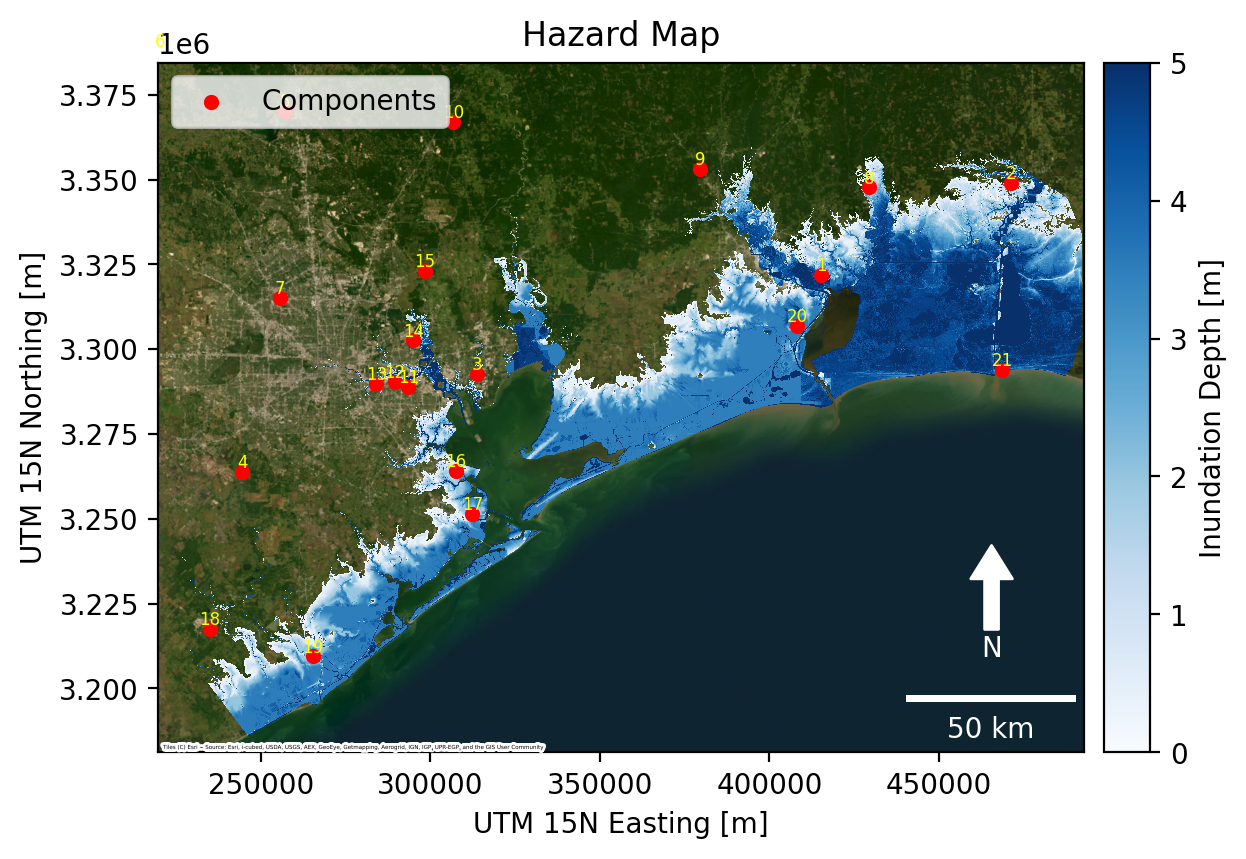
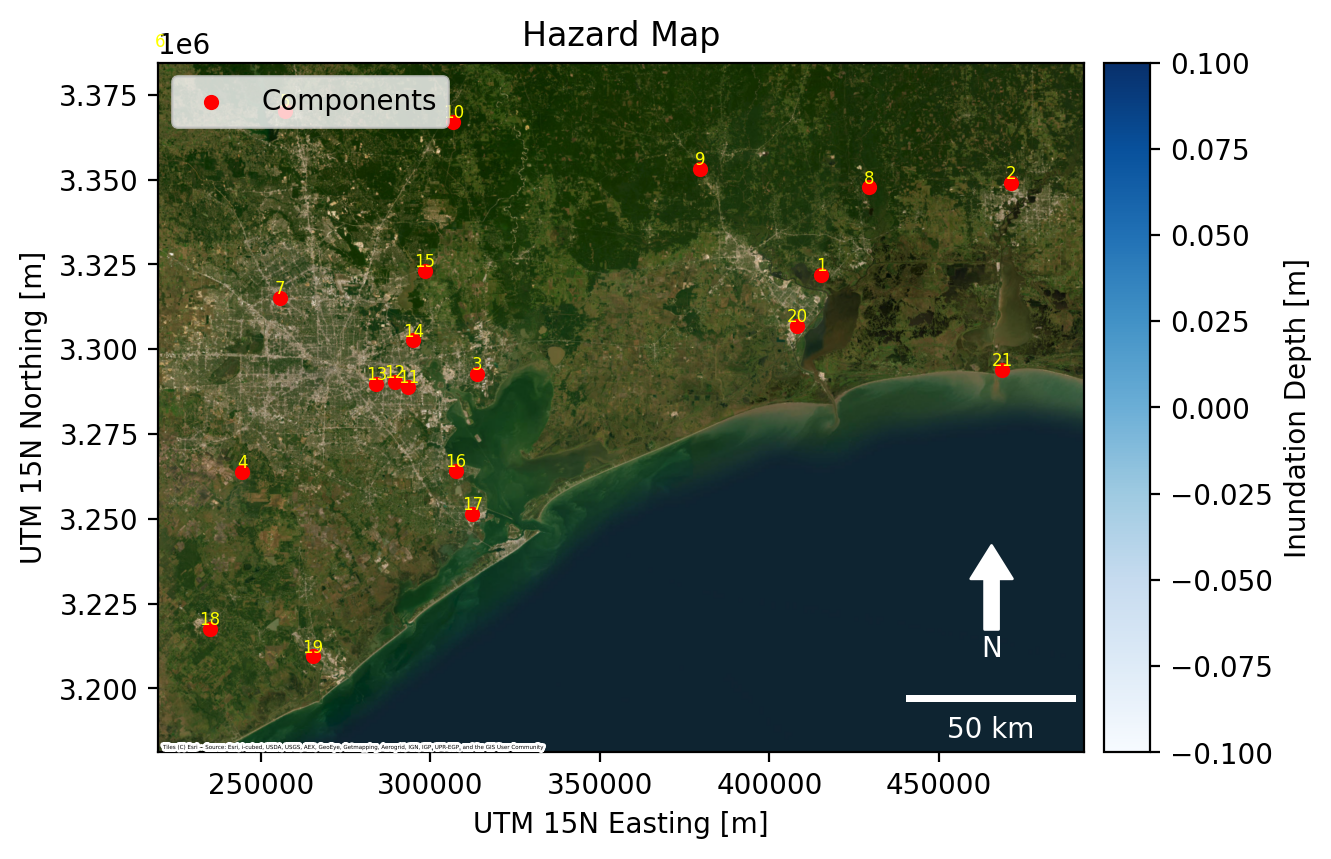
added better plots

diff --git a/utils/plot_asset_network.py b/utils/plot_asset_network.py
@@ -60,14 +60,7 @@ ASSET_TYPE_COLORS: Mapping[str, str] = {
 }
 
 # Optional edge labels to highlight the role of key connections.
-BASE_EDGE_LABELS: Dict[Tuple[str, str], str] = {
-    ("Substation1", "Compressor1"): "Feeder S1-C1",
-    ("Substation1", "Compressor2"): "Feeder S1-C2",
-    ("Substation1", "Compressor3"): "Feeder S1-C3",
-    ("Substation2", "Compressor1"): "Feeder S2-C1",
-    ("Substation2", "Compressor2"): "Feeder S2-C2",
-    ("Substation2", "Compressor3"): "Feeder S2-C3",
-}
+BASE_EDGE_LABELS: Dict[Tuple[str, str], str] = {}
 
 # Manually chosen coordinates to keep the diagram easy to read.
 BASE_MANUAL_POSITIONS: Mapping[str, Tuple[float, float]] = {
@@ -98,6 +91,9 @@ BASE_ASSET_COORDINATES: Mapping[str, Tuple[float, float]] = {
 ASSET_COORD_CRS = "EPSG:32615"
 DEFAULT_DEM_PATH = Path("data/houston_example_DEM_30m.tif")
 DEFAULT_BACKGROUND_IMAGE = Path("data/inun_zero_depth.png")
+REPO_ROOT = Path(__file__).resolve().parents[1]
+DEFAULT_IMAGE_DIR = REPO_ROOT / "Images"
+DEFAULT_PRIMARY_FILENAME = "asset_dependency_map.png"
 
 
 def _dependency_map() -> Dict[str, Sequence[str]]:
@@ -350,15 +346,18 @@ def _draw_geographic_network(
         ax.scatter(
             [coord[0]],
             [coord[1]],
-            s=120,
+            s=160,
             color=color,
-            edgecolors="#1f1f1f",
-            linewidths=0.9,
+            edgecolors="#0f0f0f",
+            linewidths=1.1,
             zorder=4,
         )
+        label_x, label_y = coord
+        if node == "Compressor1":
+            label_y += 2500.0
         text = ax.text(
-            coord[0],
-            coord[1],
+            label_x,
+            label_y,
             node,
             fontsize=9,
             ha="left",
@@ -582,7 +581,7 @@ def plot_asset_dependency_network(
                     label_facecolor="#1f1f1f",
                     label_alpha=0.75,
                     label_text_color="white",
-                    node_label_color="white",
+                    node_label_color="black",
                 )
                 if legend_img:
                     ax_img.legend(
@@ -698,15 +697,20 @@ def plot_asset_dependency_network(
         fig._secondary_map_figure = secondary_fig
         if secondary_fig is not None:
             secondary_fig._primary_map_figure = fig
-    save_path_obj = Path(save_path) if save_path is not None else None
-    if save_path_obj is not None:
-        fig.savefig(save_path_obj, bbox_inches="tight")
-        if include_map and secondary_fig is not None:
-            if save_path_obj.suffix:
-                secondary_path = save_path_obj.with_name(f"{save_path_obj.stem}_image{save_path_obj.suffix}")
-            else:
-                secondary_path = Path(str(save_path_obj) + "_image")
-            secondary_fig.savefig(secondary_path, bbox_inches="tight")
+    if save_path is not None:
+        save_path_obj = Path(save_path)
+    else:
+        save_path_obj = DEFAULT_IMAGE_DIR / DEFAULT_PRIMARY_FILENAME
+
+    save_path_obj.parent.mkdir(parents=True, exist_ok=True)
+    fig.savefig(save_path_obj, bbox_inches="tight")
+    secondary_path: Path | None = None
+    if include_map and secondary_fig is not None:
+        if save_path_obj.suffix:
+            secondary_path = save_path_obj.with_name(f"{save_path_obj.stem}_image{save_path_obj.suffix}")
+        else:
+            secondary_path = Path(str(save_path_obj) + "_image")
+        secondary_fig.savefig(secondary_path, bbox_inches="tight")
     if show:
         plt.show()
     return fig, ax

diff --git a/utils/c_hand_example.py b/utils/c_hand_example.py
@@ -97,7 +97,7 @@ plt.show()
 """### run c-HAND"""
 
 ocean_pixel = (ocean_E, ocean_N)
-ike_gage = 5  # meters NAVD88
+ike_gage = 0  # meters NAVD88
 pgf.c_hand(ocean_coords=ocean_pixel, gage_el=ike_gage)
 
 """### Crop out coastline and plot coastal inundation map"""
@@ -171,6 +171,25 @@ plt.show()
 
 # save figure
 fig.savefig(Path("data", "inun_ike.png"), dpi=200, bbox_inches="tight")
+
+# === Additional plot: baseline background with zero inundation ===
+fig_bg, ax_bg = plot_raster(
+    raster=inun_ike,
+    profile=ike_profile,
+    label="Inundation Depth [m]",
+    interpolation="nearest",
+    cmap="Blues",
+    vmax=ike_gage,
+    vmin=0,
+)
+ax_bg.set(
+    title="Baseline Map (0 m Inundation)",
+    xlabel="UTM 15N Easting [m]",
+    ylabel="UTM 15N Northing [m]",
+)
+plt.show()
+
+fig_bg.savefig(Path("data", "inun_zero_depth.png"), dpi=200, bbox_inches="tight")
 
 # === Additional plot: color-coded assets with numbering ===
 fig2, ax2 = plot_raster(

diff --git a/optimization_parallel.py b/optimization_parallel.py
@@ -50,7 +50,7 @@ from stable_baselines3.common.callbacks import (
     CallbackList,
     CheckpointCallback,
 )
-from utils.environment_placeholder import TrialEnv  # must be importable at top level
+from utils.environment import TrialEnv  # must be importable at top level
 
 WEIGHT_VECTOR_KEYS = ("W_g", "W_e", "W_ge", "W_gs", "W_ee", "W_es")
 
